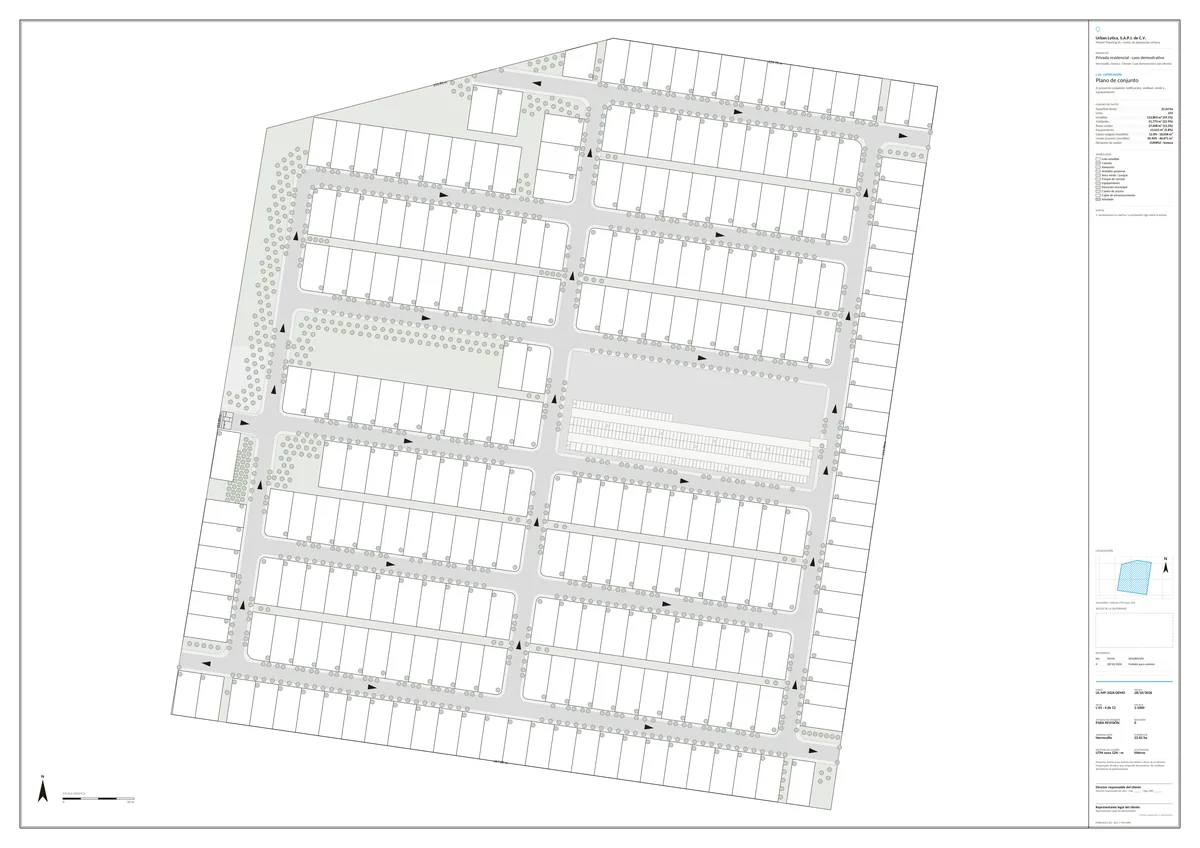
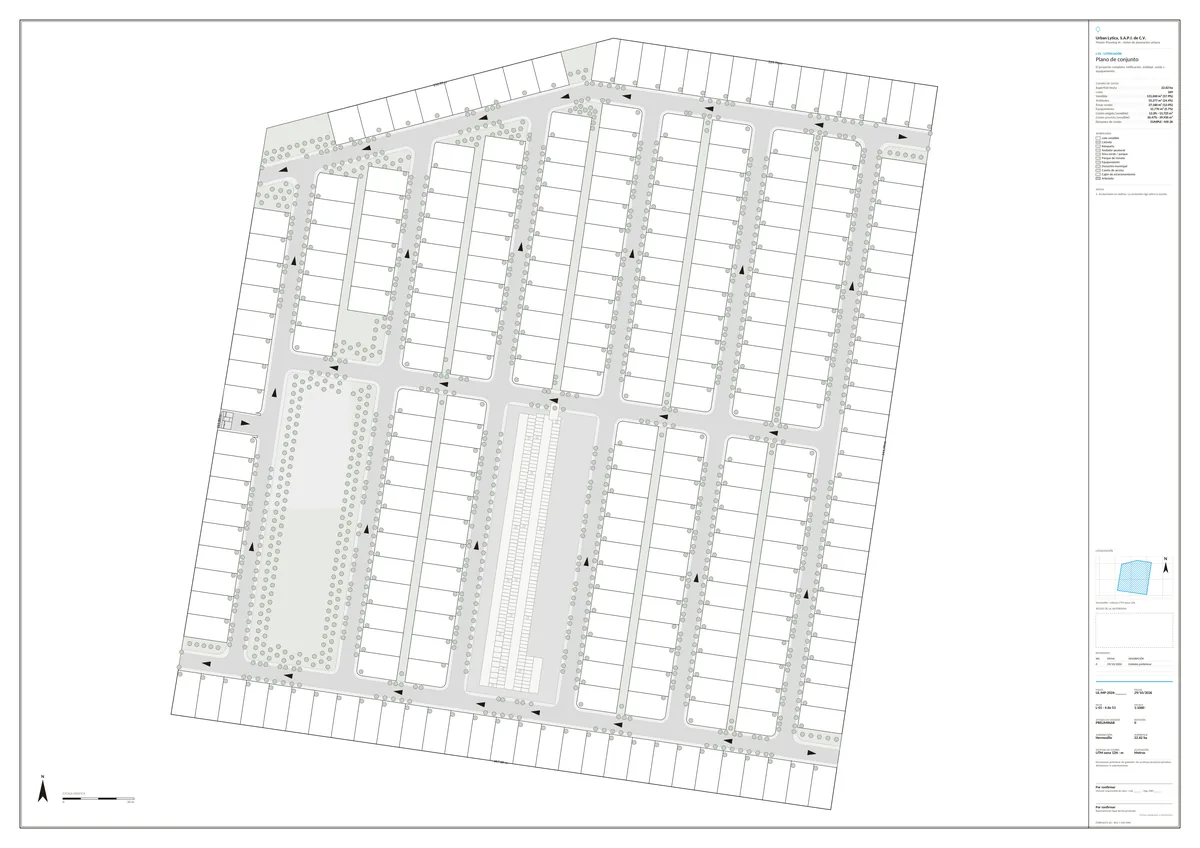
Ejemplo: vuelve la disposición original del predio (269 lotes)
La orientación de asoleamiento deja un área verde encapsulada en la
diagonal. El hero y la lámina L-01 muestran ahora la traza original, de
calles norte-sur, generada con el motor actual: 269 lotes, 57.9 % vendible.

Changed region(s): [[0.1542, 0.0307, 0.7708, 0.9505], [0.8942, 0.0613, 0.9867, 0.2453]]

diff --git a/index.html b/index.html
@@ -687,12 +687,12 @@ dialog.legal-doc::backdrop{background:rgba(8,15,24,.62)}
         <img src="assets/producto/hero-plano-1920.webp"
              srcset="assets/producto/hero-plano-1200.webp 1200w, assets/producto/hero-plano-1920.webp 1920w"
              sizes="(max-width: 1240px) 100vw, 1120px" width="1920" height="1200" fetchpriority="high"
-             alt="Captura de la plataforma: condominio de 253 lotes trazado sobre la imagen satelital de un predio de 22.6 hectáreas en Hermosillo, con calles, parques y equipamiento"
+             alt="Captura de la plataforma: condominio de 269 lotes trazado sobre la imagen satelital de un predio de 22.6 hectáreas en Hermosillo, con calles, parques y equipamiento"
              data-i18n-alt="hero.shot.alt">
       </div>
       <figcaption>
-        <span data-i18n-html="hero.shot.cap"><b>Captura real de la plataforma.</b> Predio de 22.6 ha en Hermosillo, Sonora: 253 lotes trazados en régimen de condominio sobre la imagen satelital.</span>
-        <span>28 oct 2026 · © Mapbox · © Maxar</span>
+        <span data-i18n-html="hero.shot.cap"><b>Captura real de la plataforma.</b> Predio de 22.6 ha en Hermosillo, Sonora: 269 lotes trazados en régimen de condominio sobre la imagen satelital.</span>
+        <span>29 oct 2026 · © Mapbox · © Maxar</span>
       </figcaption>
     </figure>
   </div>
@@ -853,12 +853,12 @@ dialog.legal-doc::backdrop{background:rgba(8,15,24,.62)}
           <div class="frame">
             <div class="frame-bar"><span class="frame-title" data-i18n="mod.gen.frame">Vista 2D · indicadores del plan</span></div>
             <div class="kpis">
-              <div><b>59.1%</b><span data-i18n="kpi.sale">vendible</span></div>
-              <div><b>253</b><span data-i18n="kpi.lots">lotes</span></div>
-              <div><b>22.9%</b><span data-i18n="kpi.road">vialidad</span></div>
+              <div><b>57.9%</b><span data-i18n="kpi.sale">vendible</span></div>
+              <div><b>269</b><span data-i18n="kpi.lots">lotes</span></div>
+              <div><b>24.4%</b><span data-i18n="kpi.road">vialidad</span></div>
               <div><b>22.6 ha</b><span data-i18n="kpi.area">superficie</span></div>
             </div>
-            <p class="illus real" data-i18n="illus.real.gen">Datos reales del predio de ejemplo · 28 oct 2026</p>
+            <p class="illus real" data-i18n="illus.real.gen">Datos reales del predio de ejemplo · 29 oct 2026</p>
           </div>
         </div>
       </details>
@@ -1026,11 +1026,11 @@ dialog.legal-doc::backdrop{background:rgba(8,15,24,.62)}
           <div class="frame">
             <div class="frame-bar"><span class="frame-title" data-i18n="mod.opt.frame">Base contra alternativas</span></div>
             <div class="frame-body rows">
-              <div class="row"><span class="mark y">&#10003;</span><span class="t"><span data-i18n="mod.opt.r1">Mejor composición · 59.63% vendible · 266 lotes</span><small class="cite" data-i18n="mod.opt.r1b">+13 lotes · 0 incumplimientos duros</small></span></div>
-              <div class="row"><span class="mark w">&#183;</span><span class="t"><span data-i18n="mod.opt.r2">Compromiso · 59.56% vendible · 260 lotes</span><small class="cite" data-i18n="mod.opt.r2b">+7 lotes</small></span></div>
-              <div class="row"><span class="mark w">&#183;</span><span class="t"><span data-i18n="mod.opt.r3">Base · 59.14% vendible · 253 lotes</span><small class="cite" data-i18n="mod.opt.r3b">punto de partida</small></span></div>
+              <div class="row"><span class="mark y">&#10003;</span><span class="t"><span data-i18n="mod.opt.r1">Mejor composición conforme</span><small class="cite" data-i18n="mod.opt.r1b">más vendible, cero incumplimientos duros</small></span></div>
+              <div class="row"><span class="mark w">&#183;</span><span class="t"><span data-i18n="mod.opt.r2">Alternativa de compromiso</span><small class="cite" data-i18n="mod.opt.r2b">con sus indicadores</small></span></div>
+              <div class="row"><span class="mark w">&#183;</span><span class="t"><span data-i18n="mod.opt.r3">Base</span><small class="cite" data-i18n="mod.opt.r3b">punto de partida</small></span></div>
             </div>
-            <p class="illus real" data-i18n="mod.opt.illus">Datos reales del predio de ejemplo de 22.6 ha · 28 oct 2026</p>
+            <p class="illus" data-i18n="mod.opt.illus">vista ilustrativa</p>
           </div>
         </div>
       </details>
@@ -1055,11 +1055,11 @@ dialog.legal-doc::backdrop{background:rgba(8,15,24,.62)}
           <div class="frame">
             <div class="frame-bar"><span class="frame-title" data-i18n="mod.fin.frame">Resumen del escenario</span></div>
             <div class="frame-body rows">
-              <div class="row"><span class="mark y">&#10003;</span><span class="t" data-i18n="mod.fin.r1">Superficie vendible · 133,803 m²</span></div>
+              <div class="row"><span class="mark y">&#10003;</span><span class="t" data-i18n="mod.fin.r1">Superficie vendible · 131,040 m²</span></div>
               <div class="row"><span class="mark y">&#10003;</span><span class="t" data-i18n="mod.fin.r2">Costo de urbanización · presupuesto paramétrico por partidas</span></div>
               <div class="row"><span class="mark y">&#10003;</span><span class="t" data-i18n="mod.fin.r3">Delta contra el plan base, en pesos y en metros</span></div>
             </div>
-            <p class="illus real" data-i18n="mod.fin.illus">Datos reales del predio de ejemplo · 28 oct 2026</p>
+            <p class="illus real" data-i18n="mod.fin.illus">Datos reales del predio de ejemplo · 29 oct 2026</p>
           </div>
         </div>
       </details>
@@ -1109,12 +1109,12 @@ dialog.legal-doc::backdrop{background:rgba(8,15,24,.62)}
         <img src="assets/producto/lamina-l01-1920.webp"
              srcset="assets/producto/lamina-l01-1200.webp 1200w, assets/producto/lamina-l01-1920.webp 1920w"
              sizes="(max-width: 1240px) 100vw, 1120px" width="1920" height="1356" loading="lazy"
-             alt="Hoja L-01, plano de conjunto, generada por la plataforma: lotificación con la poligonal acotada, norte, escala gráfica y cartucho con el cuadro de datos de 253 lotes y los campos de firma del director responsable"
+             alt="Hoja L-01, plano de conjunto, generada por la plataforma: lotificación con la poligonal acotada, norte, escala gráfica y cartucho con el cuadro de datos de 269 lotes y los campos de firma del director responsable"
              data-i18n-alt="show.alt">
       </div>
       <figcaption>
-        <span data-i18n-html="show.cap"><b>Hoja L-01 · Plano de conjunto.</b> Generada por la plataforma, sin retoque, y emitida para revisión: la firma tu director responsable.</span>
-        <span>28 oct 2026</span>
+        <span data-i18n-html="show.cap"><b>Hoja L-01 · Plano de conjunto.</b> Generada por la plataforma, sin retoque; la firma tu director responsable.</span>
+        <span>29 oct 2026</span>
       </figcaption>
     </figure>
     <div class="notes">
@@ -1707,8 +1707,8 @@ var EN = {
 "show.n2.k":"Data table",
 "show.n1.p":"Company, folio, date, sheet, scale, jurisdiction and UTM coordinate system.",
 "show.n1.k":"Title block",
-"show.cap":"<b>Sheet L-01 · Site plan.</b> Generated by the platform, untouched, and issued for review: your engineer of record signs it.",
-"show.alt":"Sheet L-01, site plan, generated by the platform: platting with the dimensioned boundary, north arrow, graphic scale and a title block with the data table for 253 lots and the engineer-of-record signature fields",
+"show.cap":"<b>Sheet L-01 · Site plan.</b> Generated by the platform, untouched; your engineer of record signs it.",
+"show.alt":"Sheet L-01, site plan, generated by the platform: platting with the dimensioned boundary, north arrow, graphic scale and a title block with the data table for 269 lots and the engineer-of-record signature fields",
 "show.lead":"Every project comes out as a drawing set with title block, data table and dimensions. This is sheet <b>L-01, site plan</b>, exactly as the platform generates it for the same 22.6 ha site.",
 "show.h2":"A sheet ready for the permit file.",
 "show.eyebrow":"The deliverable",
@@ -1719,13 +1719,13 @@ var EN = {
 "mod.norm.illus":"Real screenshot · Hermosillo MX-26-030 · evaluated 3 Oct 2026",
 "mod.norm.alt":"The platform's jurisdictional report for Hermosillo: cited source, evaluation date, code version and the list of adjustments through which the code directed the layout",
 "mod.norm.frame2":"Sealed jurisdictional report",
-"illus.real.gen":"Real data from the example site · 28 Oct 2026",
+"illus.real.gen":"Real data from the example site · 29 Oct 2026",
 "kpi.area":"site area",
 "band.s1":"ROU 2025 and PMDU 2023, by zone",
 "band.norm":"Code integrated",
 "band.aria":"Code integrated",
-"hero.shot.cap":"<b>Real screenshot of the platform.</b> 22.6 ha site in Hermosillo, Sonora: 253 lots laid out as a private-street development over the satellite image.",
-"hero.shot.alt":"Screenshot of the platform: a 253-lot private-street development laid out over the satellite image of a 22.6-hectare site in Hermosillo, with streets, parks and facilities",
+"hero.shot.cap":"<b>Real screenshot of the platform.</b> 22.6 ha site in Hermosillo, Sonora: 269 lots laid out as a private-street development over the satellite image.",
+"hero.shot.alt":"Screenshot of the platform: a 269-lot private-street development laid out over the satellite image of a 22.6-hectare site in Hermosillo, with streets, parks and facilities",
 "skip":"Skip to content",
 
 
@@ -1831,15 +1831,15 @@ var EN = {
 "mod.opt.p2":"Each alternative arrives with its metrics and its code result, next to the base plan: if it does not improve on it or breaks the code, you see it before you decide.",
 "mod.opt.c1":"Alternative search","mod.opt.c2":"Comparable library","mod.opt.c3":"Always compliant",
 "mod.opt.frame":"Baseline vs alternatives",
-"mod.opt.r1":"Best composition · 59.63% saleable · 266 lots","mod.opt.r1b":"+13 lots · 0 hard violations",
-"mod.opt.r2":"Compromise · 59.56% saleable · 260 lots","mod.opt.r2b":"+7 lots",
-"mod.opt.r3":"Baseline · 59.14% saleable · 253 lots","mod.opt.r3b":"starting point","mod.opt.illus":"Real data from the 22.6 ha example site · 28 Oct 2026",
+"mod.opt.r1":"Best compliant composition","mod.opt.r1b":"more saleable, zero hard violations",
+"mod.opt.r2":"Compromise alternative","mod.opt.r2b":"with its metrics",
+"mod.opt.r3":"Baseline","mod.opt.r3b":"starting point","mod.opt.illus":"illustrative view",
 "mod.fin.t":"Quantities and pro forma","mod.fin.s":"Every layout decision, priced instantly",
 "mod.fin.p1":"Geometry becomes construction numbers: quantities by trade, linear metres of street and sidewalk, and a parametric infrastructure budget. The pro forma runs on top: cost per square metre, saleable inventory value, preliminary ROI, IRR and NPV.",
 "mod.fin.p2":"Every alternative comes with its numbers, so the decision with your investment committee is made on the same study.",
 "mod.fin.c1":"Quantities by trade","mod.fin.c2":"Parametric budget","mod.fin.c4":"Comparative report",
 "mod.fin.frame":"Scenario summary",
-"mod.fin.r1":"Saleable area · 133,803 m²",
+"mod.fin.r1":"Saleable area · 131,040 m²",
 "mod.fin.r2":"Infrastructure cost · parametric budget by trade",
 "mod.fin.r3":"Delta against the baseline plan, in money and in metres",
 "mod.ent.t":"Deliverables and sign-off","mod.ent.s":"What we deliver, and who signs it",
@@ -1990,7 +1990,7 @@ var EN = {
 "band.s2":"urban development programme, by zone",
 "band.s3":"zoning, by zone",
 "mod.cad.illus":"Real engine output on a plan drawn for this sample, with no client · 28 Oct 2026",
-"mod.fin.illus":"Real data from the example site · 28 Oct 2026",
+"mod.fin.illus":"Real data from the example site · 29 Oct 2026",
 "pri.vat":"MXN + VAT",
 "pri.vatha":"MXN per ha + VAT",
 "pri.s1.tag":"Before you submit",
